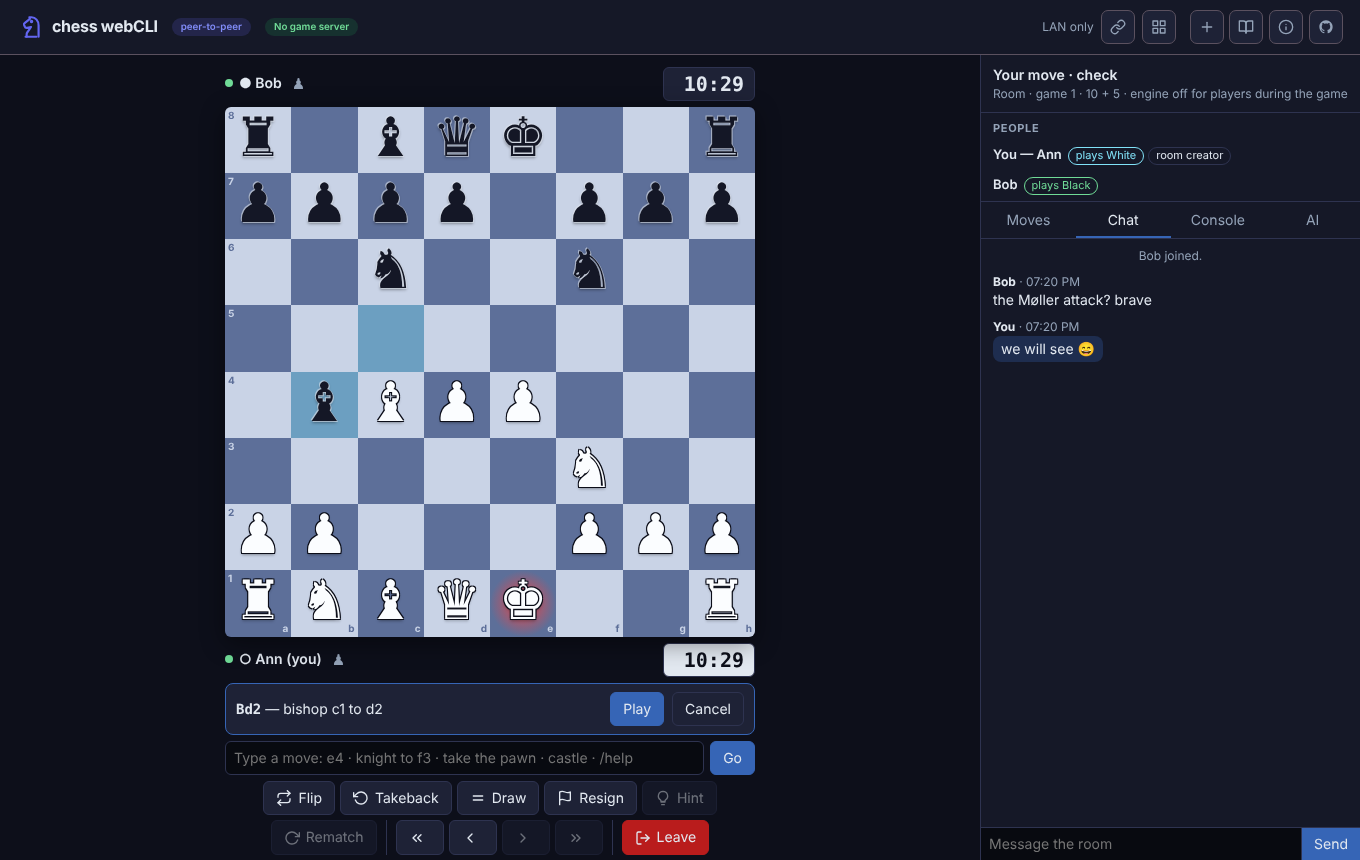
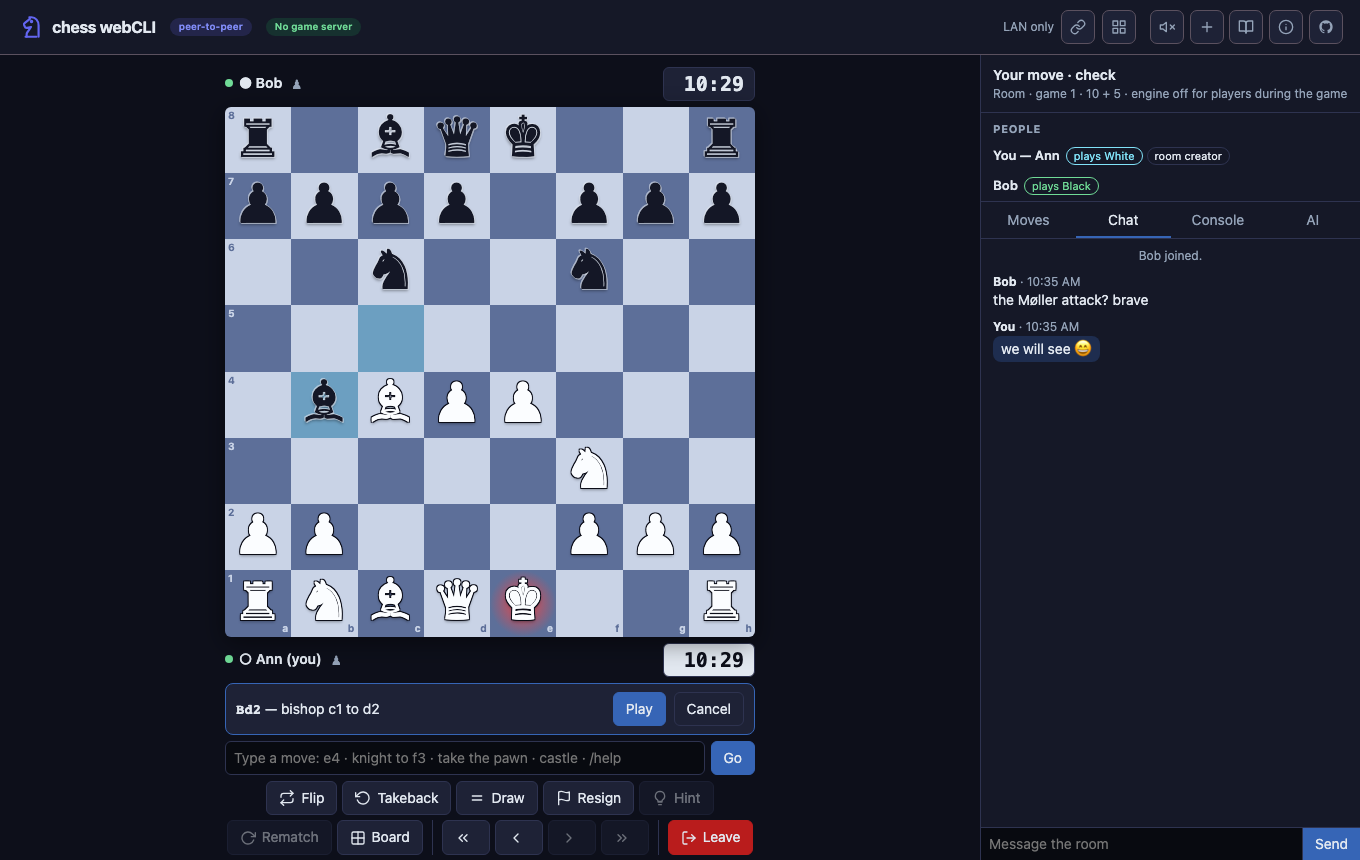
optional git repo

diff --git a/docs/js/app.js b/docs/js/app.js
@@ -62,6 +62,25 @@ const APP_DIR = (() => {
 const GLYPH = { k: '♚', q: '♛', r: '♜', b: '♝', n: '♞', p: '♟' };
 const glyph = (p) => GLYPH[p.toLowerCase()] + '';
 
+// ---------------------------------------------------------------------------- board themes
+// Colours only: the highlight overlays are translucent and work on all of them.
+const BOARD_THEMES = {
+  slate: { label: 'Slate', light: '#c9d3e6', dark: '#5d6f99' },
+  walnut: { label: 'Walnut', light: '#f0d9b5', dark: '#b58863' },
+  forest: { label: 'Forest', light: '#eaeed2', dark: '#769656' },
+  ice: { label: 'Ice', light: '#dee3e6', dark: '#8ca2ad' },
+  plum: { label: 'Plum', light: '#e3d3e0', dark: '#8c6e8a' },
+  coal: { label: 'Coal', light: '#9aa3b5', dark: '#434a63' },
+};
+function applyBoardTheme(name) {
+  const key = BOARD_THEMES[name] ? name : 'slate';
+  const t = BOARD_THEMES[key];
+  document.documentElement.style.setProperty('--light', t.light);
+  document.documentElement.style.setProperty('--dark', t.dark);
+  settings.board = key; saveSettings();
+  return t;
+}
+
 // ---------------------------------------------------------------------------- icons
 const ICONS = {
   flip: '<polyline points="17 1 21 5 17 9"/><path d="M3 11V9a4 4 0 0 1 4-4h14"/><polyline points="7 23 3 19 7 15"/><path d="M21 13v2a4 4 0 0 1-4 4H3"/>',
@@ -75,6 +94,7 @@ const ICONS = {
   next: '<polyline points="9 18 15 12 9 6"/>',
   last: '<polyline points="13 17 18 12 13 7"/><polyline points="6 17 11 12 6 7"/>',
   out: '<path d="M9 21H5a2 2 0 0 1-2-2V5a2 2 0 0 1 2-2h4"/><polyline points="16 17 21 12 16 7"/><line x1="21" y1="12" x2="9" y2="12"/>',
+  theme: '<rect x="3" y="3" width="18" height="18" rx="2"/><line x1="12" y1="3" x2="12" y2="21"/><line x1="3" y1="12" x2="21" y2="12"/>',
 };
 function setIcon(btn, name) {
   if (btn.querySelector('svg.i')) return;
@@ -83,7 +103,7 @@ function setIcon(btn, name) {
   svg.innerHTML = ICONS[name];
   btn.prepend(svg);
 }
-const CONTROL_ICONS = { btnFlip: 'flip', btnUndo: 'undo', btnDraw: 'draw', btnResign: 'flag', btnHint: 'bulb', btnAgain: 'again', btnFirst: 'first', btnPrev: 'prev', btnNext: 'next', btnLast: 'last', btnLeave: 'out' };
+const CONTROL_ICONS = { btnFlip: 'flip', btnUndo: 'undo', btnDraw: 'draw', btnResign: 'flag', btnHint: 'bulb', btnAgain: 'again', btnTheme: 'theme', btnFirst: 'first', btnPrev: 'prev', btnNext: 'next', btnLast: 'last', btnLeave: 'out' };
 for (const [id, ic] of Object.entries(CONTROL_ICONS)) setIcon($('#' + id), ic);
 
 // ---------------------------------------------------------------------------- settings (this tab only)
@@ -903,7 +923,8 @@ const HELP = [
   ['/games · /forget', 'git-backed games kept on this device; remove this one'],
   ['/ai load [model] · /ai unload · /ai status', 'the optional on-device language model'],
   ['/ai <words>', 'ask the model directly (it still only proposes a legal move)'],
-  ['/sounds on|off', 'move sounds'],
+  ['/board [theme]', 'board colours: slate, walnut, forest, ice, plum, coal'],
+  ['/sounds on|off', 'move sounds (the speaker in the header does the same)'],
   ['/egress', 'every host this page is set to contact, and the ones it has contacted'],
   ['/about', 'version, pinned libraries, protocol'],
   ['/leave', 'back to the start screen'],
@@ -967,7 +988,14 @@ async function runCommand(line) {
       $('#game').classList.add('hidden'); $('#landing').classList.remove('hidden'); $('#btnNew').classList.add('hidden'); initLanding();
       break;
     }
-    case 'sounds': settings.sounds = !/off|0|no/.test(arg); saveSettings(); log(`Sounds ${settings.sounds !== false ? 'on' : 'off'}.`); break;
+    case 'board': {
+      const k = arg.trim().toLowerCase();
+      if (!k) { log(`Board themes: ${Object.entries(BOARD_THEMES).map(([n]) => n + ((settings.board || 'slate') === n ? ' (current)' : '')).join(', ')}. /board <name> to switch.`); break; }
+      if (!BOARD_THEMES[k]) { log(`No board theme "${k}". Themes: ${Object.keys(BOARD_THEMES).join(', ')}.`, 'err'); break; }
+      log(`Board: ${applyBoardTheme(k).label}.`, 'ok');
+      break;
+    }
+    case 'sounds': settings.sounds = !/off|0|no/.test(arg); saveSettings(); updateMuteBtn(); if (settings.sounds !== false) sound('move'); log(`Sounds ${settings.sounds !== false ? 'on' : 'off'}.`); break;
     case 'egress': egressReport(); break;
     case 'about': log([`chess-webCLI ${VERSION}, protocol ${PROTO}.`, ...Object.entries(PINS).map(([f, p]) => `lib/${f}  ${p.package}@${p.version}  sha256:${p.sha256.slice(0, 16)}…  (verified when loaded)`), 'Rules: js/chess.js (perft-tested). Engine: js/engine.js. Grammar: js/intent.js. Model bounds: js/ai.js. Log: js/log.js.'].join('\n')); break;
     case 'leave': await leave(); break;
@@ -1276,6 +1304,7 @@ function renderControls() {
   set('btnResign', { label: 'Resign', title: 'Resign the game (asks first)', disabled: !playing, hidden: S.mode === 'analysis' });
   set('btnHint', { label: 'Hint', title: assistAllowed() ? 'Ask the local engine for a move (it runs on this device)' : 'Off for players during a live room game', disabled: !S.st || !assistAllowed() });
   set('btnAgain', { label: room ? (offered('rematch') ? 'Accept rematch' : 'Rematch') : 'New game', title: room ? 'Offer a new game with colours swapped' : 'Start a new game in this mode', disabled: room ? !(S.st?.result && me) : !S.st, cls: offered('rematch') ? 'on' : '' });
+  set('btnTheme', { label: 'Board', title: 'Board colours (also /board)' });
   const n = S.st?.game.ply() || 0, cur = S.review === null ? n : S.review;
   set('btnFirst', { title: 'Go to the start (Home)', disabled: !n || cur === 0 });
   set('btnPrev', { title: 'Previous move (←)', disabled: !n || cur === 0 });
@@ -1362,10 +1391,12 @@ boardEl.addEventListener('pointerdown', (e) => {
   if (S.sel && S.sel !== name && g.moves({ square: S.sel }).some((m) => m.to === name)) { tryMove(S.sel, name); return; }
   if (p && canMoveNow() && (p === p.toUpperCase() ? 'w' : 'b') === g.turn) {
     S.sel = name; S.hint = null; renderBoard();
+    sound('pickup');
     const pc = boardEl.querySelector(`[data-sq="${name}"] .pc`);
     if (pc) {
-      const size = sq.getBoundingClientRect().height;
-      drag = { from: name, ghost: el('span', { id: 'drag', class: pc.className, text: pc.textContent, style: `font-size:${size * 0.82}px;left:${e.clientX}px;top:${e.clientY}px` }), moved: false, x: e.clientX, y: e.clientY };
+      // measure the fresh square: renderBoard() above replaced the one the event landed on
+      const size = pc.closest('.sq').getBoundingClientRect().height;
+      drag = { from: name, legal: new Set(g.moves({ square: name }).map((m) => m.to)), overEl: null, ghost: el('span', { id: 'drag', class: pc.className, text: pc.textContent, style: `font-size:${size * 0.82}px;left:${e.clientX}px;top:${e.clientY}px` }), moved: false, x: e.clientX, y: e.clientY };
       boardEl.setPointerCapture(e.pointerId);
     }
   } else if (S.sel) { S.sel = null; renderBoard(); }
@@ -1375,27 +1406,39 @@ boardEl.addEventListener('pointermove', (e) => {
   if (!drag) return;
   if (!drag.moved && Math.hypot(e.clientX - drag.x, e.clientY - drag.y) > 4) {
     drag.moved = true; document.body.append(drag.ghost);
+    boardEl.classList.add('dragging');
     boardEl.querySelector(`[data-sq="${drag.from}"] .pc`)?.classList.add('ghost');
   }
-  if (drag.moved) { drag.ghost.style.left = e.clientX + 'px'; drag.ghost.style.top = e.clientY + 'px'; }
+  if (drag.moved) {
+    drag.ghost.style.left = e.clientX + 'px'; drag.ghost.style.top = e.clientY + 'px';
+    // outline the square under the pointer: bright when the drop is legal, faint when it is not
+    const t = document.elementFromPoint(e.clientX, e.clientY)?.closest?.('.sq');
+    if (t !== drag.overEl) {
+      drag.overEl?.classList.remove('over', 'illegal');
+      drag.overEl = t && t.dataset.sq !== drag.from ? t : null;
+      if (drag.overEl) { drag.overEl.classList.add('over'); if (!drag.legal.has(drag.overEl.dataset.sq)) drag.overEl.classList.add('illegal'); }
+    }
+  }
 });
 const endDrag = (e) => {
   if (!drag) return;
   const d = drag; drag = null;
   d.ghost.remove();
+  d.overEl?.classList.remove('over', 'illegal');
+  boardEl.classList.remove('dragging');
   if (!d.moved) return;
   const target = document.elementFromPoint(e.clientX, e.clientY)?.closest?.('.sq');
   if (target && target.dataset.sq !== d.from) tryMove(d.from, target.dataset.sq);
   else renderBoard();
 };
 boardEl.addEventListener('pointerup', endDrag);
-boardEl.addEventListener('pointercancel', () => { if (drag) { drag.ghost.remove(); drag = null; renderBoard(); } });
+boardEl.addEventListener('pointercancel', () => { if (drag) { drag.ghost.remove(); drag.overEl?.classList.remove('over', 'illegal'); boardEl.classList.remove('dragging'); drag = null; renderBoard(); } });
 
 async function tryMove(from, to) {
   S.sel = null;
   const g = boardGame();
   const cands = g.moves({ square: from }).filter((m) => m.to === to);
-  if (!cands.length) { renderBoard(); return; }
+  if (!cands.length) { sound('illegal'); renderBoard(); return; }
   let m = cands[0];
   if (cands.length > 1) { const promo = await pickPromotion(g.turn); if (!promo) { renderBoard(); return; } m = cands.find((x) => x.promotion.toLowerCase() === promo); }
   await playMove(m);
@@ -1461,6 +1504,28 @@ async function showQr() {
   showScreen({ title: 'Invite QR', node: el('div', {}, canvas, el('p', { class: 'dim mono', text: url, style: 'word-break:break-all' }), el('p', { class: 'dim', text: 'Anyone who scans this can join: the first takes the open seat, everyone after watches.' })) });
 }
 function showFatal(text) { const f = $('#fatal'); f.textContent = text; f.classList.remove('hidden'); log(text, 'err'); }
+// Board colours: swatches in a dialog; /board does the same from the console.
+function showThemeDialog() {
+  const grid = el('div', { class: 'themes' });
+  const make = (k, t) => el('button', { type: 'button', class: 'theme' + ((settings.board || 'slate') === k ? ' cur' : ''), title: `Use the ${t.label} board colours`, onclick: () => { applyBoardTheme(k); for (const b of grid.children) b.classList.toggle('cur', b.dataset.k === k); log(`Board: ${t.label}.`, 'ok'); }, 'data-k': k },
+    el('span', { class: 'swatch', 'aria-hidden': 'true' },
+      el('i', { style: `background:${t.light}` }), el('i', { style: `background:${t.dark}` }),
+      el('i', { style: `background:${t.dark}` }), el('i', { style: `background:${t.light}` })),
+    el('span', { text: t.label }));
+  for (const [k, t] of Object.entries(BOARD_THEMES)) grid.append(make(k, t));
+  showScreen({ title: 'Board colours', node: el('div', {}, grid, el('p', { class: 'dim', style: 'margin:10px 0 0', text: 'Kept until this tab is closed. The console command is /board.' })), actions: [{ label: 'Done', cls: 'primary' }] });
+}
+// The speaker in the header mirrors /sounds.
+function updateMuteBtn() {
+  const on = settings.sounds !== false;
+  const b = $('#btnMute');
+  $('#icoSoundOn').classList.toggle('hidden', !on);
+  $('#icoSoundOff').classList.toggle('hidden', on);
+  b.setAttribute('aria-pressed', String(!on));
+  const t = on ? 'Mute move sounds' : 'Sounds are muted. Press to turn them back on';
+  if (b.dataset.tip) b.dataset.tip = t; else b.setAttribute('title', t);
+  b.setAttribute('aria-label', t);
+}
 async function copy(text) {
   try { await navigator.clipboard.writeText(text); return true; }
   catch { const ta = el('textarea', {}); ta.value = text; document.body.append(ta); ta.select(); try { document.execCommand('copy'); } catch {} ta.remove(); return false; }
@@ -1493,11 +1558,16 @@ function sound(kind) {
   try {
     actx = actx || new AudioContext();
     const now = actx.currentTime;
-    const tones = { move: [[520, 0, 0.05]], capture: [[360, 0, 0.07], [260, 0.05, 0.08]], check: [[700, 0, 0.06], [880, 0.07, 0.08]], end: [[523, 0, 0.12], [659, 0.12, 0.12], [784, 0.24, 0.2]], offer: [[660, 0, 0.08], [660, 0.14, 0.08]], chat: [[880, 0, 0.05]] }[kind] || [];
-    for (const [f, t, d] of tones) {
+    // [frequency, start, duration, gain]; the quiet ones are UI feedback, the louder ones are game events
+    const tones = {
+      move: [[520, 0, 0.05]], capture: [[360, 0, 0.07], [260, 0.05, 0.08]], check: [[700, 0, 0.06], [880, 0.07, 0.08]],
+      end: [[523, 0, 0.12], [659, 0.12, 0.12], [784, 0.24, 0.2]], offer: [[660, 0, 0.08], [660, 0.14, 0.08]], chat: [[880, 0, 0.05]],
+      pickup: [[600, 0, 0.025, 0.05]], illegal: [[150, 0, 0.08, 0.1], [110, 0.04, 0.1, 0.08]],
+    }[kind] || [];
+    for (const [f, t, d, g = 0.12] of tones) {
       const o = actx.createOscillator(), gn = actx.createGain();
       o.frequency.value = f; o.type = 'triangle';
-      gn.gain.setValueAtTime(0.0001, now + t); gn.gain.exponentialRampToValueAtTime(0.12, now + t + 0.01); gn.gain.exponentialRampToValueAtTime(0.0001, now + t + d);
+      gn.gain.setValueAtTime(0.0001, now + t); gn.gain.exponentialRampToValueAtTime(g, now + t + 0.01); gn.gain.exponentialRampToValueAtTime(0.0001, now + t + d);
       o.connect(gn).connect(actx.destination); o.start(now + t); o.stop(now + t + d + 0.02);
     }
   } catch {}
@@ -1544,6 +1614,8 @@ $('#btnNew').onclick = () => leave();
 $('#brand').onclick = (e) => { if (S.mode) { e.preventDefault(); leave(); } };
 $('#btnInvite').onclick = async () => { await copy(inviteUrl()); log('Invite link copied. The first person to open it takes the open seat; anyone after watches.', 'ok'); };
 $('#btnQr').onclick = () => showQr();
+$('#btnMute').onclick = () => runCommand('/sounds ' + (settings.sounds === false ? 'on' : 'off'));
+$('#btnTheme').onclick = () => showThemeDialog();
 $('#btnPgn').onclick = async () => { if (S.st) { await copy(pgnOf(S.st)); log('PGN copied.', 'ok'); } };
 $('#btnFen').onclick = async () => { await copy(boardGame().fen()); log('FEN copied: ' + boardGame().fen(), 'ok'); };
 $('#btnLoad').onclick = () => openLoadDialog();
@@ -1614,6 +1686,8 @@ if ('serviceWorker' in navigator && window.isSecureContext && !new URLSearchPara
 
 // Resume after a reload: an open room invite is joined only when the user presses Join; an on-device
 // game in this tab is restored at once.
+applyBoardTheme(settings.board);
+updateMuteBtn();
 initLanding();
 (async () => {
   const inv = parseInvite();

diff --git a/docs/index.html b/docs/index.html
@@ -66,8 +66,10 @@
   svg.i { width:16px; height:16px; fill:none; stroke:currentColor; stroke-width:2; stroke-linecap:round; stroke-linejoin:round; flex:none; }
   .cbtn { display:inline-flex; align-items:center; gap:6px; position:relative; }
 
-  /* ---- landing ---- */
-  #landing { max-width:720px; width:100%; margin:0 auto; padding:32px 16px 64px; flex:1; overflow:auto; }
+  /* ---- landing (the family's two-column entry scene on big screens) ---- */
+  #landing { max-width:1160px; width:100%; margin:0 auto; padding:32px 24px 64px; flex:1; overflow:auto; }
+  #landing .lgrid { display:grid; grid-template-columns:1fr 1fr; gap:0 18px; align-items:start; }
+  @media (max-width:940px) { #landing { max-width:720px; padding:32px 16px 64px; } #landing .lgrid { grid-template-columns:1fr; } }
   #landing h1 { margin:0 0 4px; font-size:26px; }
   #landing .sub { margin:0 0 20px; color:var(--dim); }
   #landing .card { margin-bottom:16px; }
@@ -115,7 +117,13 @@
   .pc.w { color:#fbfdff; text-shadow:0 0 1px #0d0f1a,0 0 1px #0d0f1a,1px 1px 0 #0d0f1a,-1px -1px 0 #0d0f1a,1px -1px 0 #0d0f1a,-1px 1px 0 #0d0f1a,0 2px 3px rgba(0,0,0,.35); }
   .pc.b { color:#141726; text-shadow:0 0 1px #e2e8f0,1px 1px 0 rgba(226,232,240,.55),-1px -1px 0 rgba(226,232,240,.55),0 2px 3px rgba(0,0,0,.35); }
   .pc.ghost { opacity:.25; }
-  #drag { position:fixed; z-index:60; pointer-events:none; line-height:1; transform:translate(-50%,-55%); }
+  /* feedback while a piece is being dragged */
+  #board.dragging, #board.dragging .pc { cursor:grabbing; }
+  .sq.over { outline:3px solid var(--acc-h); outline-offset:-3px; z-index:4; }
+  .sq.over.illegal { outline-color:rgba(226,232,240,.3); }
+  .sq.over .dotm { width:40%; height:40%; background:rgba(13,15,26,.5); }
+  .sq.over .ring { border-width:7px; border-color:rgba(13,15,26,.5); }
+  #drag { position:fixed; z-index:60; pointer-events:none; line-height:1; transform:translate(-50%,-58%) scale(1.12); filter:drop-shadow(0 7px 10px rgba(0,0,0,.55)); }
   #boardMsg { position:absolute; inset:0; z-index:5; display:flex; align-items:center; justify-content:center; pointer-events:none; }
   #boardMsg > div { background:rgba(13,15,26,.86); border:1px solid var(--line); border-radius:10px; padding:14px 18px; max-width:80%; text-align:center; pointer-events:auto; }
   #boardMsg .big { font-size:20px; font-weight:700; margin-bottom:4px; }
@@ -173,6 +181,11 @@
   #qrCanvas { background:#fff; padding:8px; border-radius:6px; image-rendering:pixelated; width:240px; height:240px; display:block; margin:8px auto; }
   .promo { display:flex; gap:8px; justify-content:center; }
   .promo button { font-size:44px; width:72px; height:72px; padding:0; background:var(--light); }
+  .themes { display:grid; grid-template-columns:repeat(auto-fill,minmax(120px,1fr)); gap:10px; }
+  .theme { display:flex; flex-direction:column; align-items:center; gap:6px; padding:10px 8px; }
+  .theme.cur { border-color:var(--acc-h); box-shadow:0 0 0 1px var(--acc-h); }
+  .theme .swatch { display:grid; grid-template-columns:1fr 1fr; width:56px; height:56px; border-radius:6px; overflow:hidden; box-shadow:0 2px 6px rgba(0,0,0,.4); }
+  .theme .swatch i { display:block; }
   #tip { position:fixed; z-index:200; max-width:260px; padding:6px 10px; background:var(--surface3); color:var(--fg); border:1px solid var(--line); border-radius:6px; font-size:12px; line-height:1.35; pointer-events:none; opacity:0; visibility:hidden; transition:opacity .12s; box-shadow:0 4px 14px rgba(0,0,0,.45); }
   #tip.show { opacity:1; visibility:visible; }
 
@@ -217,6 +230,10 @@
     <button id="btnQr" class="header-icon" type="button" title="Show the invite as a QR code" aria-label="Show invite QR code"><svg class="i" viewBox="0 0 24 24" aria-hidden="true"><rect x="3" y="3" width="7" height="7"/><rect x="14" y="3" width="7" height="7"/><rect x="14" y="14" width="7" height="7"/><rect x="3" y="14" width="7" height="7"/></svg></button>
   </div>
   <nav class="help-nav" aria-label="Help">
+    <button id="btnMute" class="header-icon" type="button" title="Mute move sounds" aria-label="Mute move sounds" aria-pressed="false">
+      <svg class="i" id="icoSoundOn" viewBox="0 0 24 24" aria-hidden="true"><polygon points="11 5 6 9 2 9 2 15 6 15 11 19 11 5"/><path d="M19.07 4.93a10 10 0 0 1 0 14.14"/><path d="M15.54 8.46a5 5 0 0 1 0 7.07"/></svg>
+      <svg class="i hidden" id="icoSoundOff" viewBox="0 0 24 24" aria-hidden="true"><polygon points="11 5 6 9 2 9 2 15 6 15 11 19 11 5"/><line x1="23" y1="9" x2="17" y2="15"/><line x1="17" y1="9" x2="23" y2="15"/></svg>
+    </button>
     <button id="btnInstall" class="header-icon hidden" type="button" title="Install chess webCLI as an app on this device (it then opens offline)" aria-label="Install as an app"><svg class="i" viewBox="0 0 24 24" aria-hidden="true"><path d="M21 15v4a2 2 0 0 1-2 2H5a2 2 0 0 1-2-2v-4"/><polyline points="7 10 12 15 17 10"/><line x1="12" y1="15" x2="12" y2="3"/></svg></button>
     <button id="btnNew" class="header-icon hidden" type="button" title="Back to the start screen" aria-label="Back to the start screen"><svg class="i" viewBox="0 0 24 24" aria-hidden="true"><line x1="12" y1="5" x2="12" y2="19"/><line x1="5" y1="12" x2="19" y2="12"/></svg></button>
     <a href="about/" class="header-icon" id="navAbout" title="How it works" aria-label="How it works"><svg class="i" viewBox="0 0 24 24" aria-hidden="true"><path d="M2 3h6a4 4 0 0 1 4 4v14a3 3 0 0 0-3-3H2z"/><path d="M22 3h-6a4 4 0 0 0-4 4v14a3 3 0 0 1 3-3h7z"/></svg></a>
@@ -232,6 +249,8 @@
   <div id="offlineNote" class="banner warn hidden">You are offline. Games on this device work. A room needs a connection to reach the introduction servers.</div>
   <div id="fatal" class="banner bad hidden"></div>
 
+  <div class="lgrid">
+  <div class="lcol">
   <div class="card" id="pane-room">
     <h2>Play a friend</h2>
     <div id="invitedNote" class="banner info hidden">You opened an invite link. Nothing is sent anywhere until you join.</div>
@@ -274,7 +293,9 @@
       <div class="row"><button id="btnSaveSettings" title="Use these network settings until this tab is closed">Save settings</button><span class="dim" id="settingsNote"></span></div>
     </details>
   </div>
+  </div>
 
+  <div class="lcol">
   <div class="card" id="pane-local">
     <h2>Play on this device</h2>
     <p class="dim" style="margin:0">Zero egress: nothing leaves this device. Works offline.</p>
@@ -305,6 +326,8 @@
       <li>A room exists only while someone is in it. Nothing is stored anywhere but this tab.</li>
     </ul>
   </div>
+  </div>
+  </div>
 </div>
 
 <div id="game" class="hidden">
@@ -325,6 +348,7 @@
         <button id="btnResign" class="cbtn" type="button"><span class="lbl">Resign</span></button>
         <button id="btnHint" class="cbtn" type="button"><span class="lbl">Hint</span></button>
         <button id="btnAgain" class="cbtn" type="button"><span class="lbl">Rematch</span></button>
+        <button id="btnTheme" class="cbtn" type="button"><span class="lbl">Board</span></button>
         <span class="sep"></span>
         <button id="btnFirst" class="cbtn" type="button"><span class="lbl"></span></button>
         <button id="btnPrev" class="cbtn" type="button"><span class="lbl"></span></button>

diff --git a/docs/about/index.html b/docs/about/index.html
@@ -157,7 +157,7 @@ every event: i, prev = hash(previous event), sig</pre>
 </ul>
 
 <h2 id="console">Console</h2>
-<p>Every control has a console command, and the other way round: <code>/move</code>, <code>/flip</code>, <code>/takeback</code>, <code>/draw</code>, <code>/accept</code>, <code>/decline</code>, <code>/resign</code>, <code>/rematch</code>, <code>/new</code>, <code>/hint</code>, <code>/eval</code>, <code>/level</code>, <code>/describe</code>, <code>/fen</code>, <code>/pgn</code>, <code>/load</code>, <code>/first</code> <code>/prev</code> <code>/next</code> <code>/last</code>, <code>/seats</code>, <code>/peers</code>, <code>/chat</code>, <code>/invite</code>, <code>/qr</code>, <code>/ai</code>, <code>/sounds</code>, <code>/egress</code>, <code>/about</code>, <code>/leave</code>.</p>
+<p>Every control has a console command, and the other way round: <code>/move</code>, <code>/flip</code>, <code>/takeback</code>, <code>/draw</code>, <code>/accept</code>, <code>/decline</code>, <code>/resign</code>, <code>/rematch</code>, <code>/new</code>, <code>/hint</code>, <code>/eval</code>, <code>/level</code>, <code>/describe</code>, <code>/fen</code>, <code>/pgn</code>, <code>/load</code>, <code>/first</code> <code>/prev</code> <code>/next</code> <code>/last</code>, <code>/seats</code>, <code>/peers</code>, <code>/chat</code>, <code>/invite</code>, <code>/qr</code>, <code>/ai</code>, <code>/board</code>, <code>/sounds</code>, <code>/egress</code>, <code>/about</code>, <code>/leave</code>.</p>
 
 <p class="dim" style="margin-top:40px">Web-CLI architecture: <a href="https://arxiv.org/abs/2608.28950">The Web-CLI: Verifiable Privacy for Tools, Models, and Inference Engines in the Browser</a>, Tejaswi Gowda, Arizona State University.</p>
 </main>

diff --git a/README.md b/README.md
@@ -49,9 +49,9 @@ On-device games are zero-egress. Rooms cannot be, because moves have to reach th
 - **Type your moves**: notation (`e4`, `Nxe5`, `O-O`, `e7e8q`) plays at once; plain words ("knight to f3", "take the queen", "castle long", "kingside knight out", "bishop blocks on d2") go through a fixed grammar that can only return legal moves, and are proposed for you to confirm. Several matches become buttons.
 - **Bounded on-device AI (optional)**: see below.
 - **Engine off for players in a live room game**: hints and evaluation are offered to watchers, to games on your device, and to everyone after the game.
-- **Console with GUI parity**: `/move`, `/flip`, `/takeback`, `/draw`, `/accept`, `/decline`, `/resign`, `/rematch`, `/new`, `/hint`, `/eval`, `/level`, `/describe`, `/fen`, `/pgn`, `/load`, `/first` `/prev` `/next` `/last`, `/seats`, `/peers`, `/chat`, `/invite`, `/qr`, `/ai`, `/sounds`, `/egress`, `/about`, `/leave`.
+- **Console with GUI parity**: `/move`, `/flip`, `/takeback`, `/draw`, `/accept`, `/decline`, `/resign`, `/rematch`, `/new`, `/hint`, `/eval`, `/level`, `/describe`, `/fen`, `/pgn`, `/load`, `/first` `/prev` `/next` `/last`, `/seats`, `/peers`, `/chat`, `/invite`, `/qr`, `/ai`, `/board`, `/sounds`, `/egress`, `/about`, `/leave`.
 - **Verified libraries**: Trystero and the QR generator (the same builds rtc-webCLI pins) and WebLLM are vendored in `docs/lib/`; the page checks each file's SHA-256 against `js/app.js` and refuses to run on a mismatch.
-- **Installable, opens offline (PWA)**, works on a phone (tested at 390 px wide), tooltips on every control, generated move sounds (no audio files).
+- **Installable, opens offline (PWA)**, works on a phone (tested at 390 px wide), tooltips on every control, board colour themes (`/board` or the Board button), generated move sounds (no audio files) with a mute button in the header.
 
 <p align="center"><img src="docs/img/phone.png" alt="The phone layout, against the computer" width="300"></p>
 
